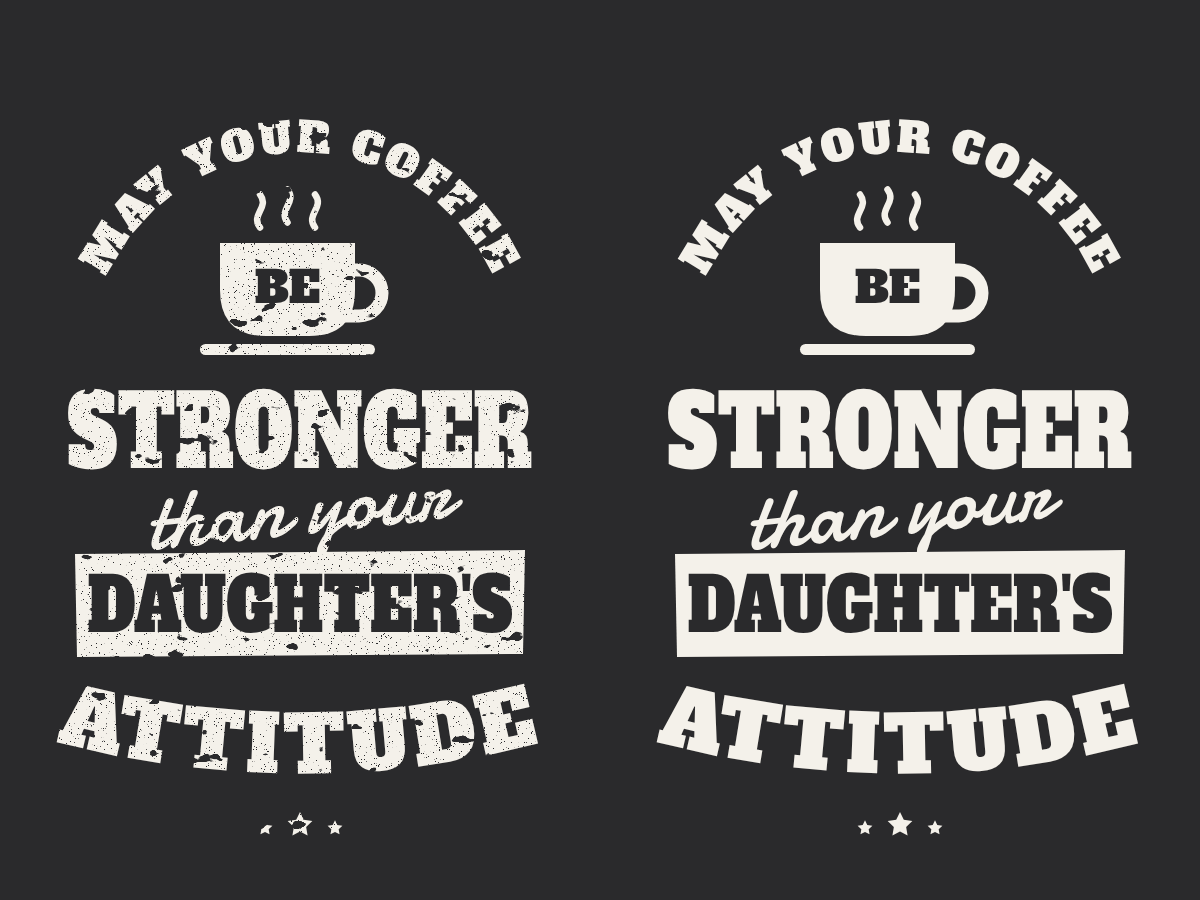
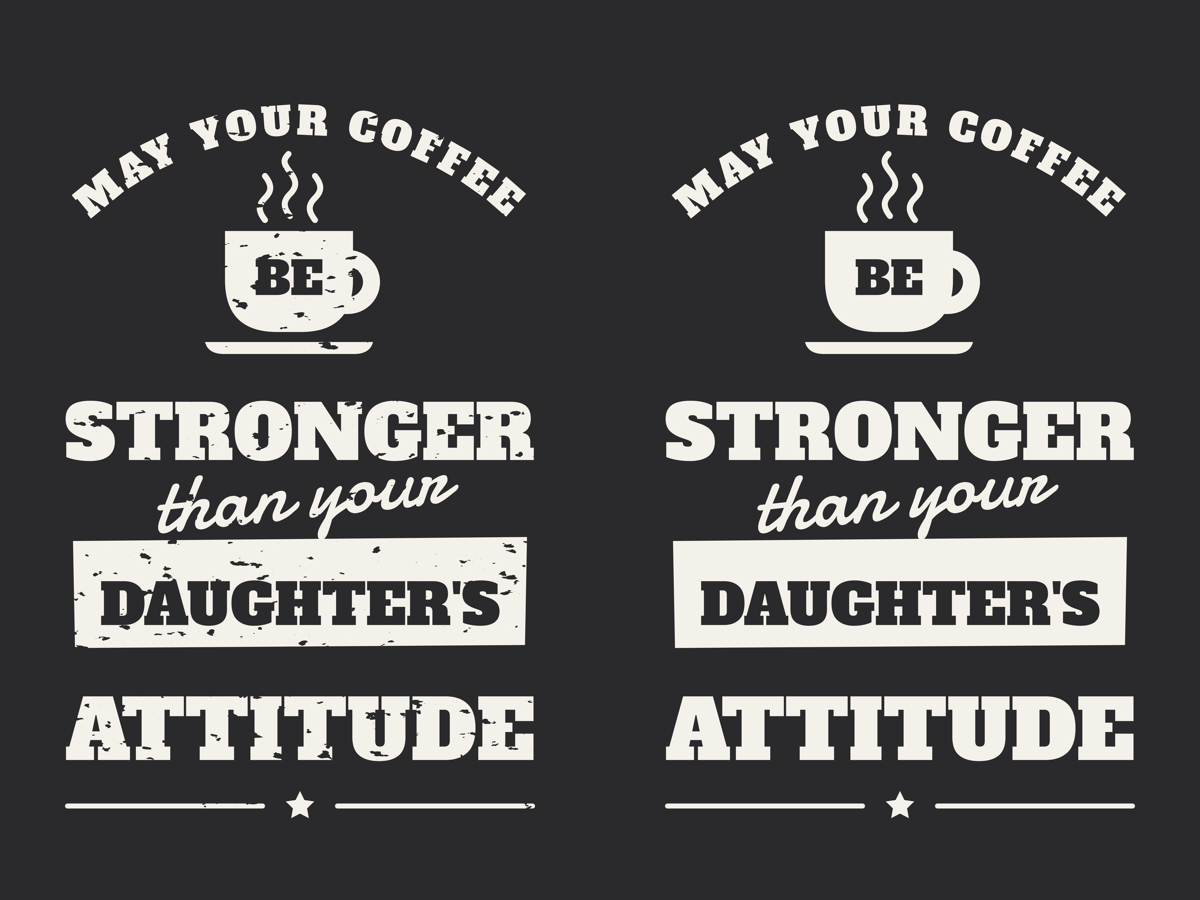
Coffee/daughter poster v3: unstretched type, crisp distress, fixed overlaps
Claude-Session: https://claude.ai/code/session_015DB7PHK6SS9Nz7Ve2xnLF9

diff --git a/designs/coffee-daughter/poster.html b/designs/coffee-daughter/poster.html
@@ -6,45 +6,51 @@ html,body{margin:0;background:#2a2a2c}svg{display:block}
 </style></head><body>
 <svg id="p" width="1200" height="1800" viewBox="0 0 1200 1800" xmlns="http://www.w3.org/2000/svg">
 <defs>
- <path id="top" d="M 175,690 A 425 425 0 0 1 1025,690"/>
- <path id="bot" d="M 100,1440 A 1900 1900 0 0 0 1100,1440"/>
- <filter id="grunge" x="0" y="0" width="1200" height="1800" filterUnits="userSpaceOnUse">
-  <feTurbulence type="fractalNoise" baseFrequency="0.7" numOctaves="2" seed="4" result="n1"/>
-  <feColorMatrix in="n1" type="matrix" values="0 0 0 0 0 0 0 0 0 0 0 0 0 0 0 -30 0 0 0 22.2" result="m1"/>
-  <feTurbulence type="fractalNoise" baseFrequency="0.018 0.03" numOctaves="3" seed="21" result="n2"/>
-  <feColorMatrix in="n2" type="matrix" values="0 0 0 0 0 0 0 0 0 0 0 0 0 0 0 -40 0 0 0 29.4" result="m2"/>
-  <feComposite in="m1" in2="m2" operator="arithmetic" k1="1" result="m"/>
+ <path id="top" d="M 0,870 A 600 600 0 0 1 1200,870"/>
+ <filter id="grunge" x="0" y="0" width="1200" height="1800" filterUnits="userSpaceOnUse" color-interpolation-filters="sRGB">
+  <feTurbulence type="fractalNoise" baseFrequency="0.38" numOctaves="2" seed="5" result="n1"/>
+  <feColorMatrix in="n1" type="matrix" values="0 0 0 0 0 0 0 0 0 0 0 0 0 0 0 1 0 0 0 0"/>
+  <feComponentTransfer result="m1"><feFuncA type="discrete" tableValues="1 1 1 1 1 1 1 1 1 1 1 1 1 0 0"/></feComponentTransfer>
+  <feTurbulence type="fractalNoise" baseFrequency="0.022 0.05" numOctaves="4" seed="9" result="n2"/>
+  <feColorMatrix in="n2" type="matrix" values="0 0 0 0 0 0 0 0 0 0 0 0 0 0 0 1 0 0 0 0"/>
+  <feComponentTransfer result="m2"><feFuncA type="discrete" tableValues="1 1 1 1 1 1 1 1 1 1 1 1 1 1 1 1 1 1 1 1 1 1 0 0 0 0 0 0 0 0"/></feComponentTransfer>
+  <feComposite in="m1" in2="m2" operator="in" result="m"/>
   <feComposite in="SourceGraphic" in2="m" operator="in"/>
  </filter>
  <mask id="kn" maskUnits="userSpaceOnUse" x="0" y="0" width="1200" height="1800">
   <rect width="1200" height="1800" fill="#fff"/>
-  <text class="s" x="575" y="565" font-size="88" text-anchor="middle" fill="#000">BE</text>
-  <text class="s" x="600" y="1224" font-size="150" text-anchor="middle" textLength="850" lengthAdjust="spacingAndGlyphs" fill="#000">DAUGHTER'S</text>
+  <text id="be" class="s" x="578" y="590" font-size="92" text-anchor="middle" fill="#000">BE</text>
+  <text id="dau" class="s fit" data-w="800" x="600" y="1250" text-anchor="middle" fill="#000">DAUGHTER'S</text>
  </mask>
 </defs>
 <rect width="1200" height="1800" fill="#2a2a2c"/>
-<g id="ink" fill="#f4f1ea"><g transform="translate(0 40)">
- <text class="s" font-size="84" letter-spacing="6"><textPath href="#top" startOffset="50%" text-anchor="middle">MAY YOUR COFFEE</textPath></text>
- <g fill="none" stroke="#f4f1ea" stroke-width="13" stroke-linecap="round">
-  <path d="M520,415 c-20,-26 20,-40 0,-66"/>
-  <path d="M575,405 c-20,-26 20,-40 0,-66"/>
-  <path d="M630,415 c-20,-26 20,-40 0,-66"/>
-  <path d="M700,500 h18 a46,46 0 0 1 0,92 h-30" stroke-width="26"/>
+<g id="ink" fill="#f4f1ea">
+ <text class="s" font-size="78" letter-spacing="7"><textPath href="#top" startOffset="50%" text-anchor="middle">MAY YOUR COFFEE</textPath></text>
+ <g fill="none" stroke="#f4f1ea" stroke-linecap="round" stroke-width="12">
+  <path d="M530,440 c-14,-18 -14,-30 0,-44 s14,-26 0,-44"/>
+  <path d="M580,432 c-14,-18 -14,-30 0,-44 s14,-26 0,-44 s-14,-24 -3,-36"/>
+  <path d="M630,440 c-14,-18 -14,-30 0,-44 s14,-26 0,-44"/>
  </g>
  <g mask="url(#kn)">
-  <path d="M440,446 H710 V540 Q710,632 618,632 H532 Q440,632 440,540 Z"/>
-  <rect x="400" y="648" width="350" height="22" rx="11"/>
-  <path d="M150,1068 L1050,1060 L1046,1268 L154,1274 Z"/>
+  <path d="M696,500 a64,64 0 1 1 0,128 h-24 v-34 h24 a30,30 0 1 0 0,-60 h-24 v-34 z"/>
+  <path d="M450,462 H706 V560 Q706,664 602,664 H554 Q450,664 450,560 Z"/>
+  <path d="M410,684 H746 Q740,708 708,708 H448 Q416,708 410,684 Z"/>
+  <path d="M146,1082 L1054,1074 L1050,1290 L150,1296 Z"/>
  </g>
- <text class="s" x="600" y="895" font-size="200" text-anchor="middle" textLength="930" lengthAdjust="spacingAndGlyphs">STRONGER</text>
- <text class="c" x="600" y="1028" font-size="170" text-anchor="middle" transform="rotate(-6 600 990)">than your</text>
- <text class="s" font-size="158" letter-spacing="10"><textPath href="#bot" startOffset="50%" text-anchor="middle">ATTITUDE</textPath></text>
- <g transform="translate(600 1610)">
-  <path d="M0,-26 l7.6,15.6 17.1,2.5 -12.4,12 2.9,17 -15.2,-8 -15.2,8 2.9,-17 -12.4,-12 17.1,-2.5z"/>
-  <path transform="translate(-70 6) scale(.6)" d="M0,-26 l7.6,15.6 17.1,2.5 -12.4,12 2.9,17 -15.2,-8 -15.2,8 2.9,-17 -12.4,-12 17.1,-2.5z"/>
-  <path transform="translate(70 6) scale(.6)" d="M0,-26 l7.6,15.6 17.1,2.5 -12.4,12 2.9,17 -15.2,-8 -15.2,8 2.9,-17 -12.4,-12 17.1,-2.5z"/>
+ <text class="s fit" data-w="940" x="600" y="920" text-anchor="middle">STRONGER</text>
+ <text class="c" x="604" y="1036" font-size="164" text-anchor="middle" transform="rotate(-6 600 1010)">than your</text>
+ <text class="s fit" data-w="940" x="600" y="1520" text-anchor="middle">ATTITUDE</text>
+ <g transform="translate(600 1612)">
+  <rect x="-470" y="-5" width="400" height="10" rx="5"/><rect x="70" y="-5" width="400" height="10" rx="5"/>
+  <path d="M0,-30 l8.8,18 19.7,2.9 -14.3,13.9 3.4,19.6 -17.6,-9.3 -17.6,9.3 3.4,-19.6 -14.3,-13.9 19.7,-2.9z"/>
  </g>
-</g></g>
+</g>
 </svg>
-<script>if(location.hash==='#grunge')document.getElementById('ink').setAttribute('filter','url(#grunge)');</script>
+<script>
+document.fonts.ready.then(()=>{
+ document.querySelectorAll('.fit').forEach(t=>{t.setAttribute('font-size',100);const w=t.getBBox().width;t.setAttribute('font-size',(100*(+t.dataset.w)/w).toFixed(2));});
+ if(location.hash==='#grunge')document.getElementById('ink').setAttribute('filter','url(#grunge)');
+ document.body.dataset.ready=1;
+});
+</script>
 </body></html>

diff --git a/designs/coffee-daughter/render.js b/designs/coffee-daughter/render.js
@@ -1,6 +1,6 @@
 const {chromium}=require('playwright');
 (async()=>{const b=await chromium.launch();const dir=process.argv[2];const scale=+process.argv[3];
 for(const v of ['grunge','clean']){const p=await b.newPage({viewport:{width:1200,height:1800},deviceScaleFactor:scale});
-await p.goto('file://'+dir+'/'+(process.argv[4]||'poster.html')+'#'+v);await p.evaluate(()=>document.fonts.ready);await p.waitForTimeout(300);
+await p.goto('file://'+dir+'/'+(process.argv[4]||'poster.html')+'#'+v);await p.waitForSelector('body[data-ready]').catch(()=>{});await p.evaluate(()=>document.fonts.ready);await p.waitForTimeout(300);
 await p.locator('#p').screenshot({path:dir+'/'+(process.argv[5]||'out')+'-'+v+'-x'+scale+'.png'});await p.close();}
 await b.close();})();
